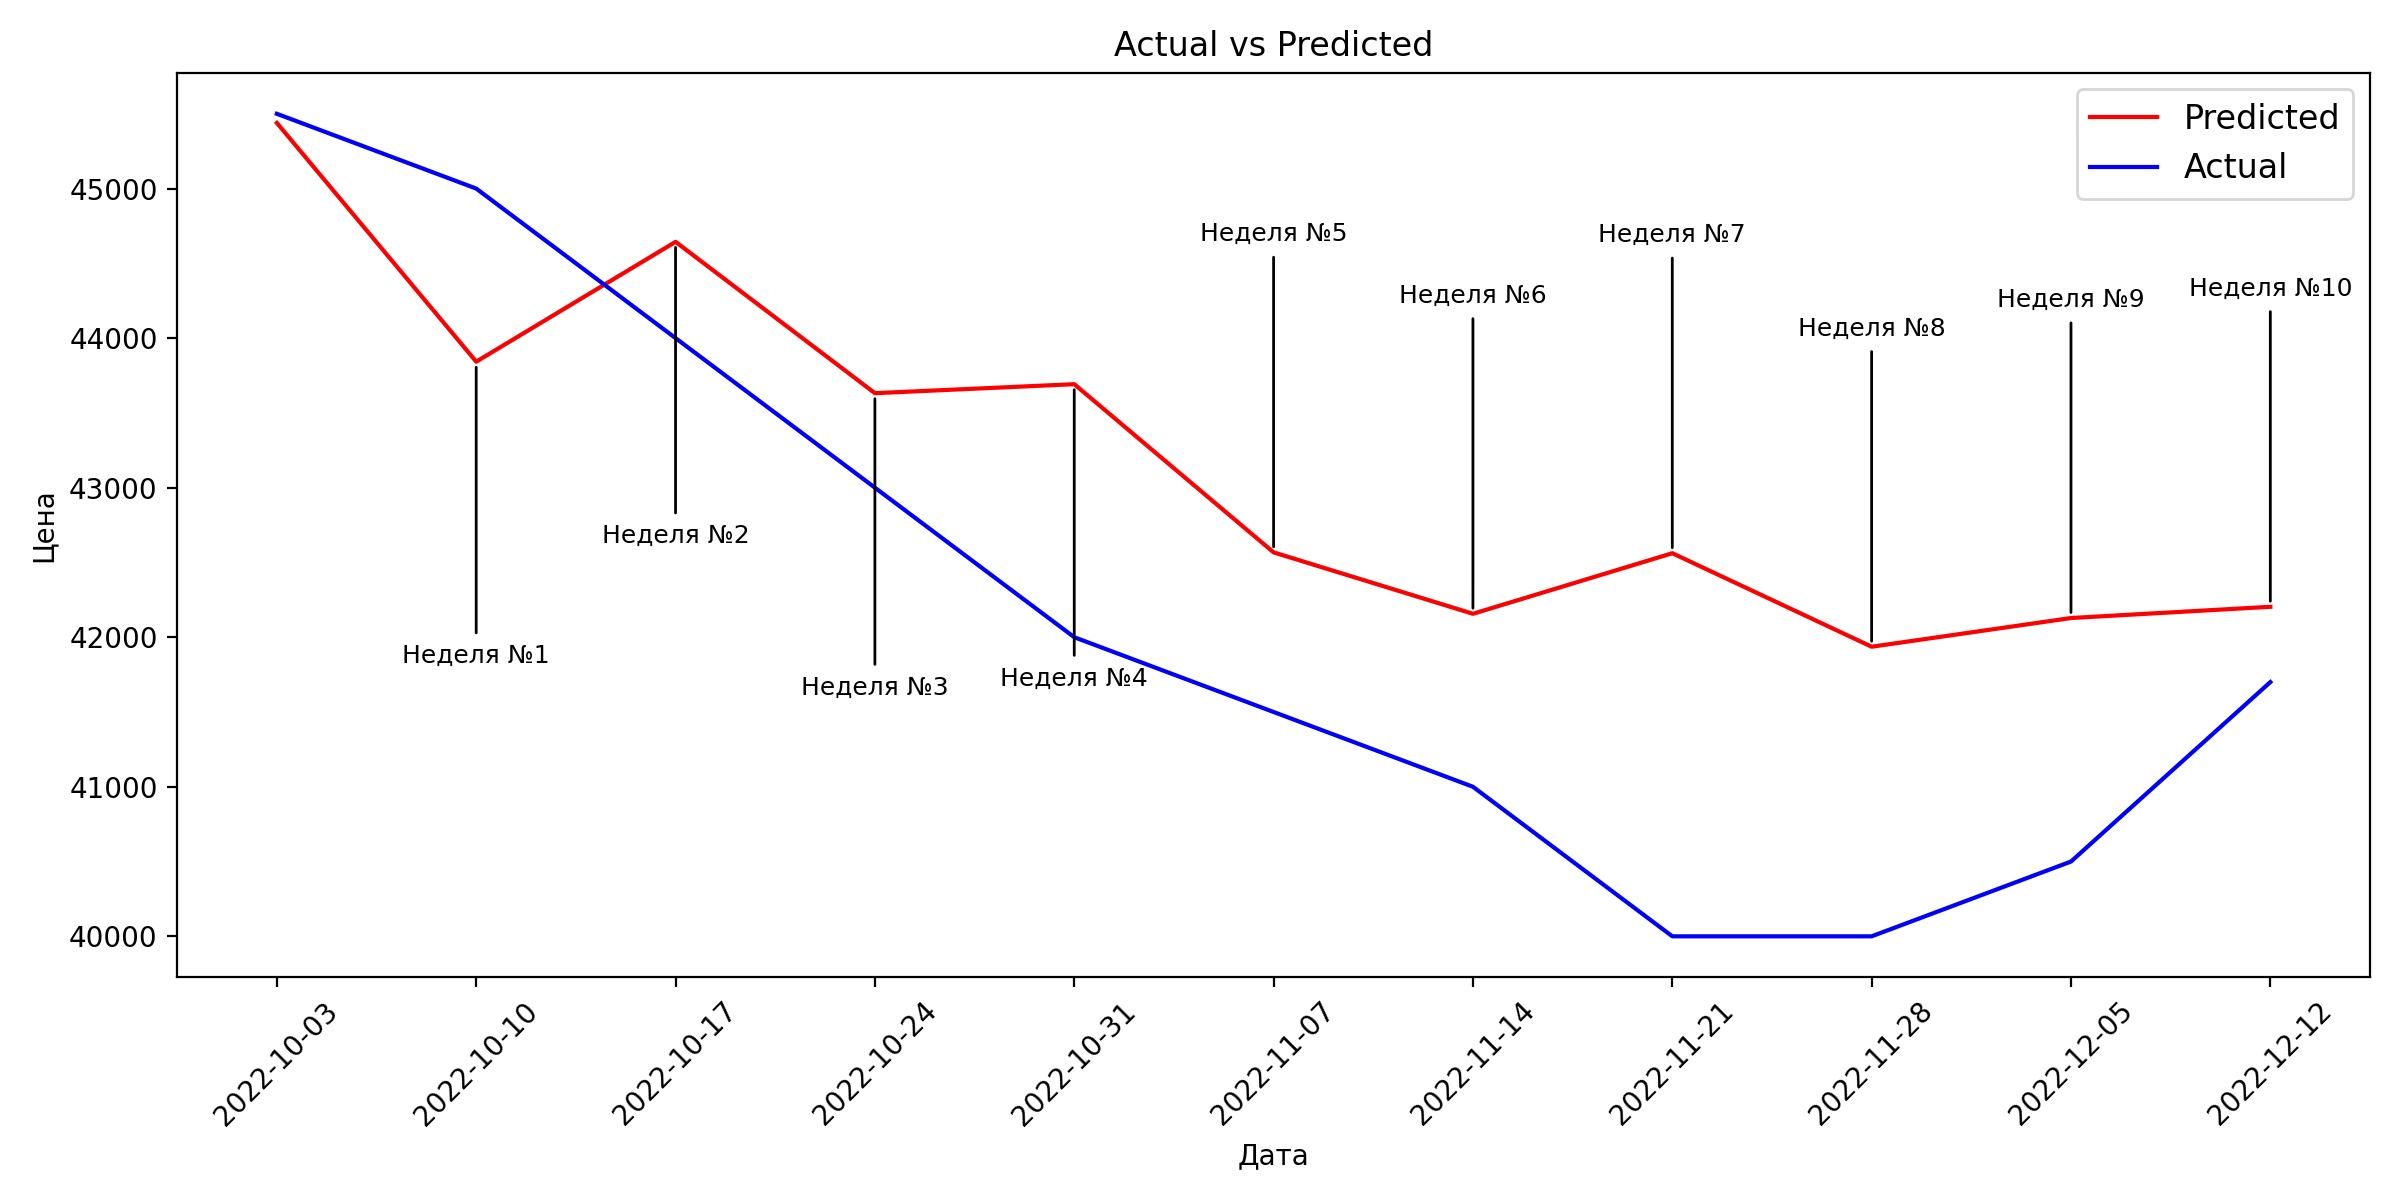
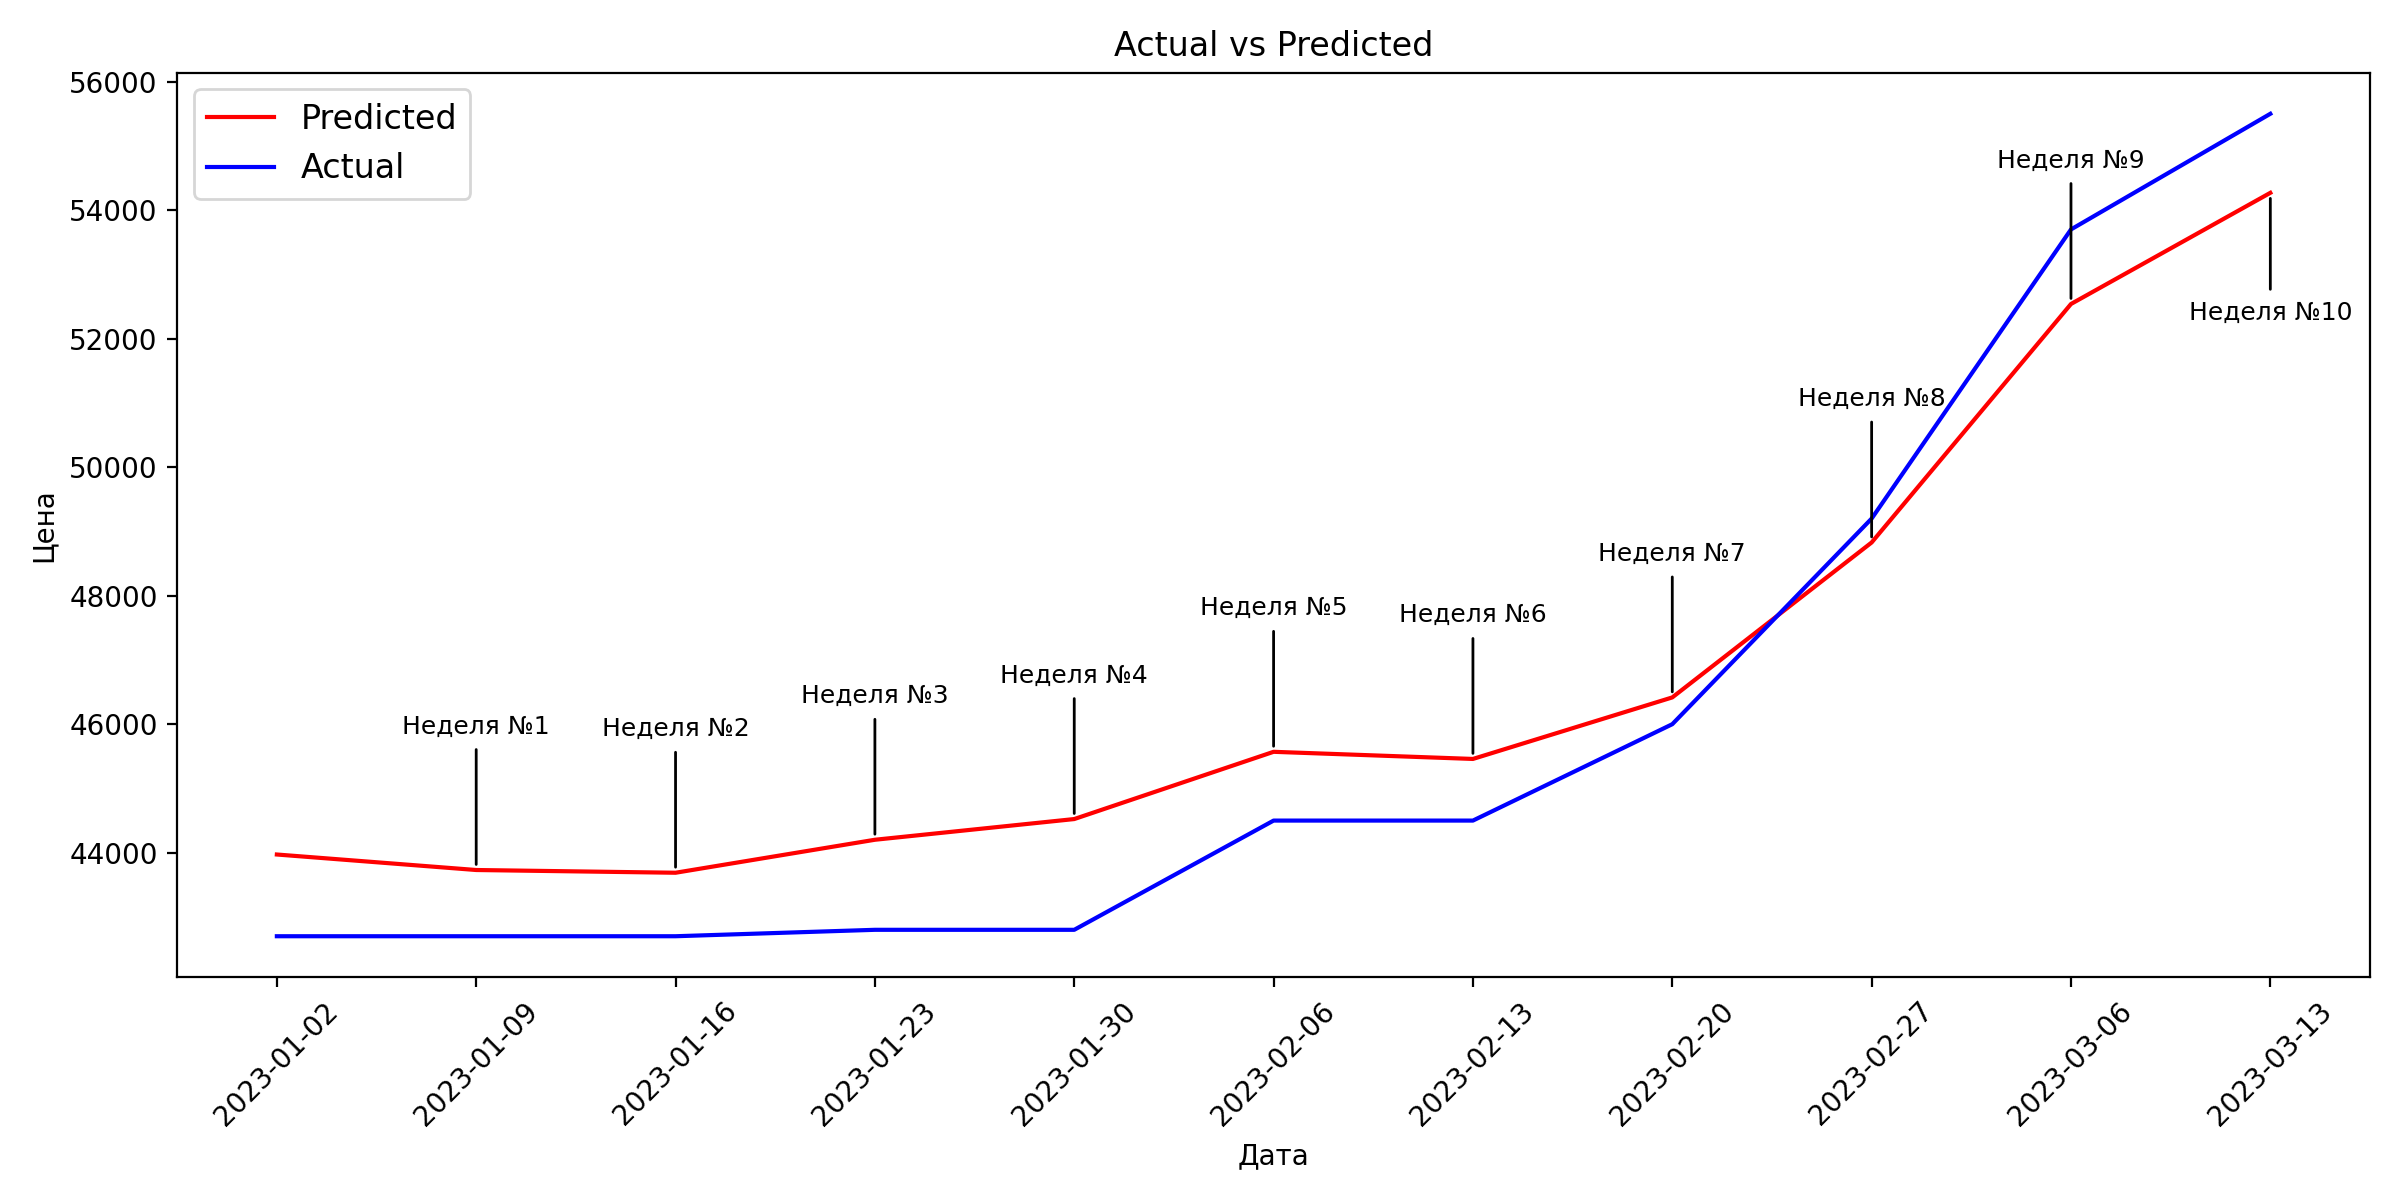
app_26.03.2025(11:23)

diff --git a/app/MainMenu.py b/app/MainMenu.py
@@ -22,7 +22,7 @@ class MainMenu(QWidget):
 ##########################################################################################
 
         self.cd = QDateEdit()                                               # Дата
-        self.cd.setDate(QDate(2022, 10, 3))
+        self.cd.setDate(QDate(2023, 1, 2))
         self.cd.setDisplayFormat("d.MM.yyyy")
 
         self.now = QSpinBox()                                               # Количество недель
@@ -97,22 +97,32 @@ class MainMenu(QWidget):
 
             self.schedule.setPixmap(s)
 
-            asist = []
-            
-            for i in range(0, len(pred)-2):
-                if pred[i] < pred[i+1]:
-                    asist.append(dt[i])
+            advice = 'Рекомедованные даты для закупок:'
 
-            
-            if len(asist) != 0:
-                
-                advice = 'Рекомедованные даты для закупок:'
+            for i in range(len(pred)):
 
-                for elm in asist:
-                    s = str(elm).split(' ')[0]
-                    t = s.split('-')
+                c = 0
 
-                    advice += f'\n    {s}({t[2]}.{t[1]}.{t[0]})'
+                for j in range(i+1,len(pred)):
 
-                self.sign.setText(advice)
-        
+                    if pred[i] > pred[j]:
+                        c = j - i
+                        break
+                        
+                    c = len(pred) - i
+
+                if c != 0:
+                    t = str(dt[i]).split(' ')[0]
+                    t = t.split('-')
+
+                    advice += f'\n    {t[2]}.{t[1]}.{t[0]}({i}) - на {c} {self.declination(c)}'
+
+            self.sign.setText(advice)
+
+    def declination(self, week):
+        if week == 1:
+            return 'неделю'
+        elif week in [2, 3, 4]:
+            return 'недели'
+        else:
+            return 'недель'
